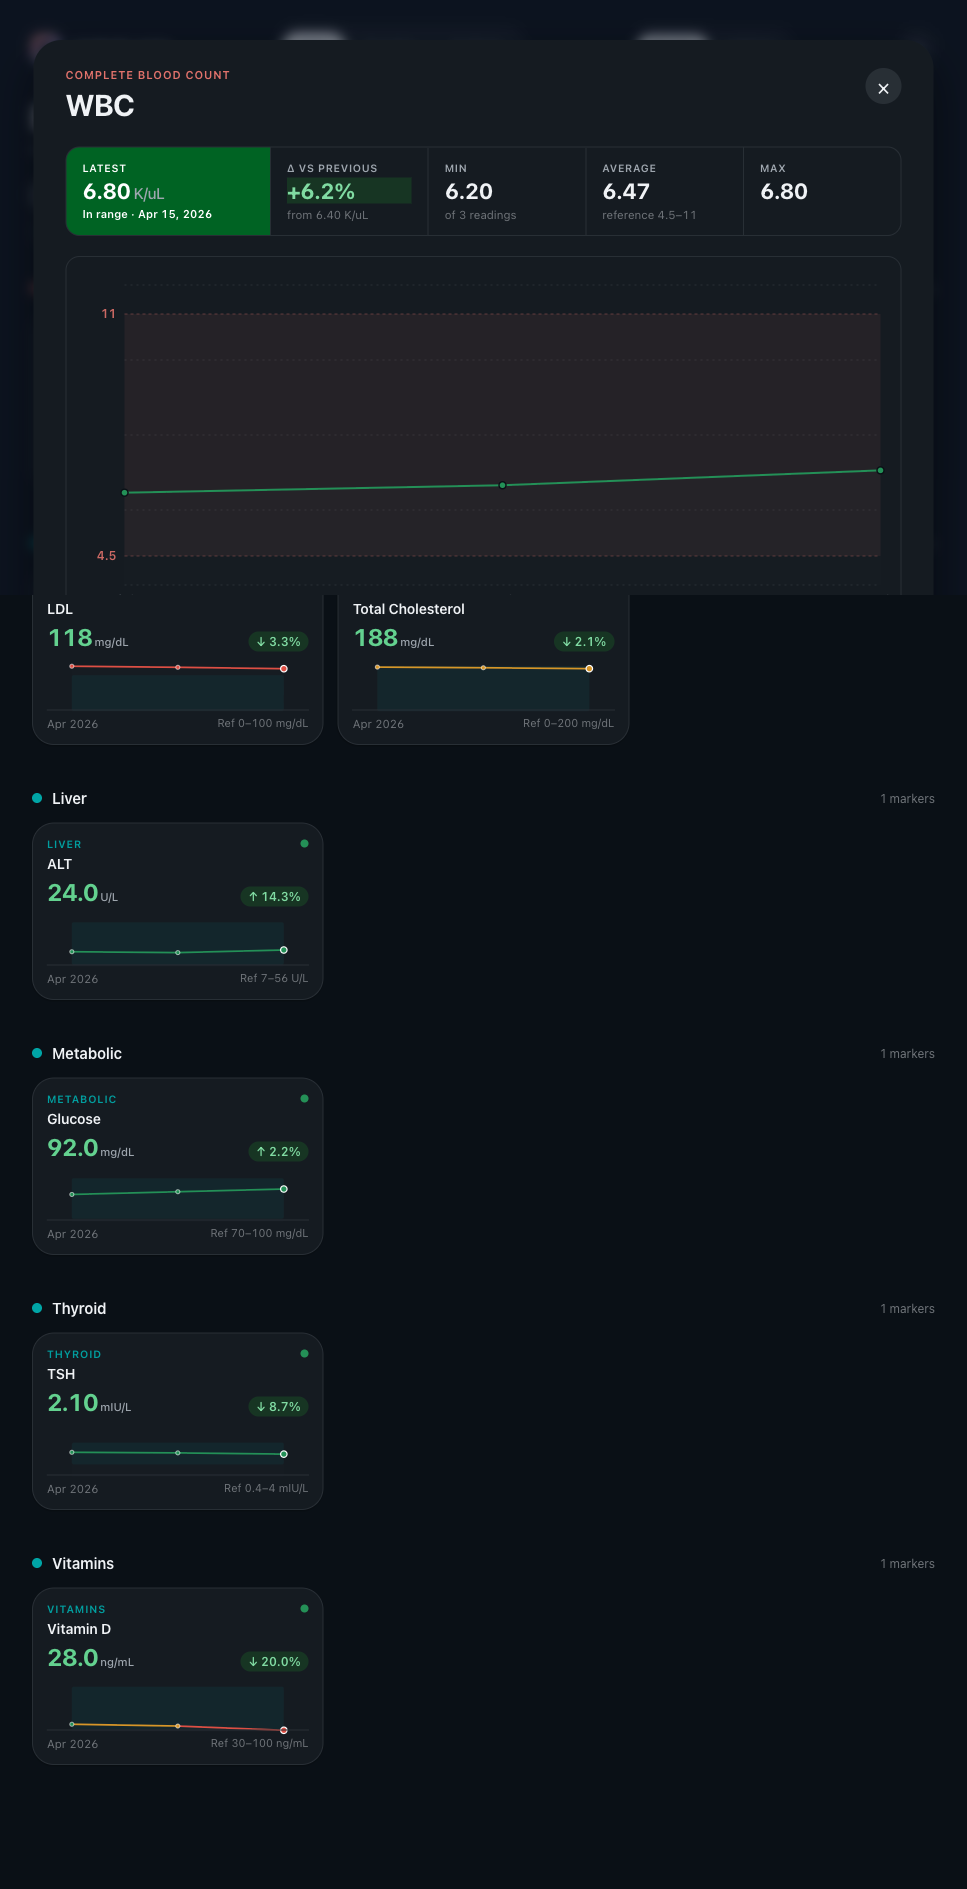
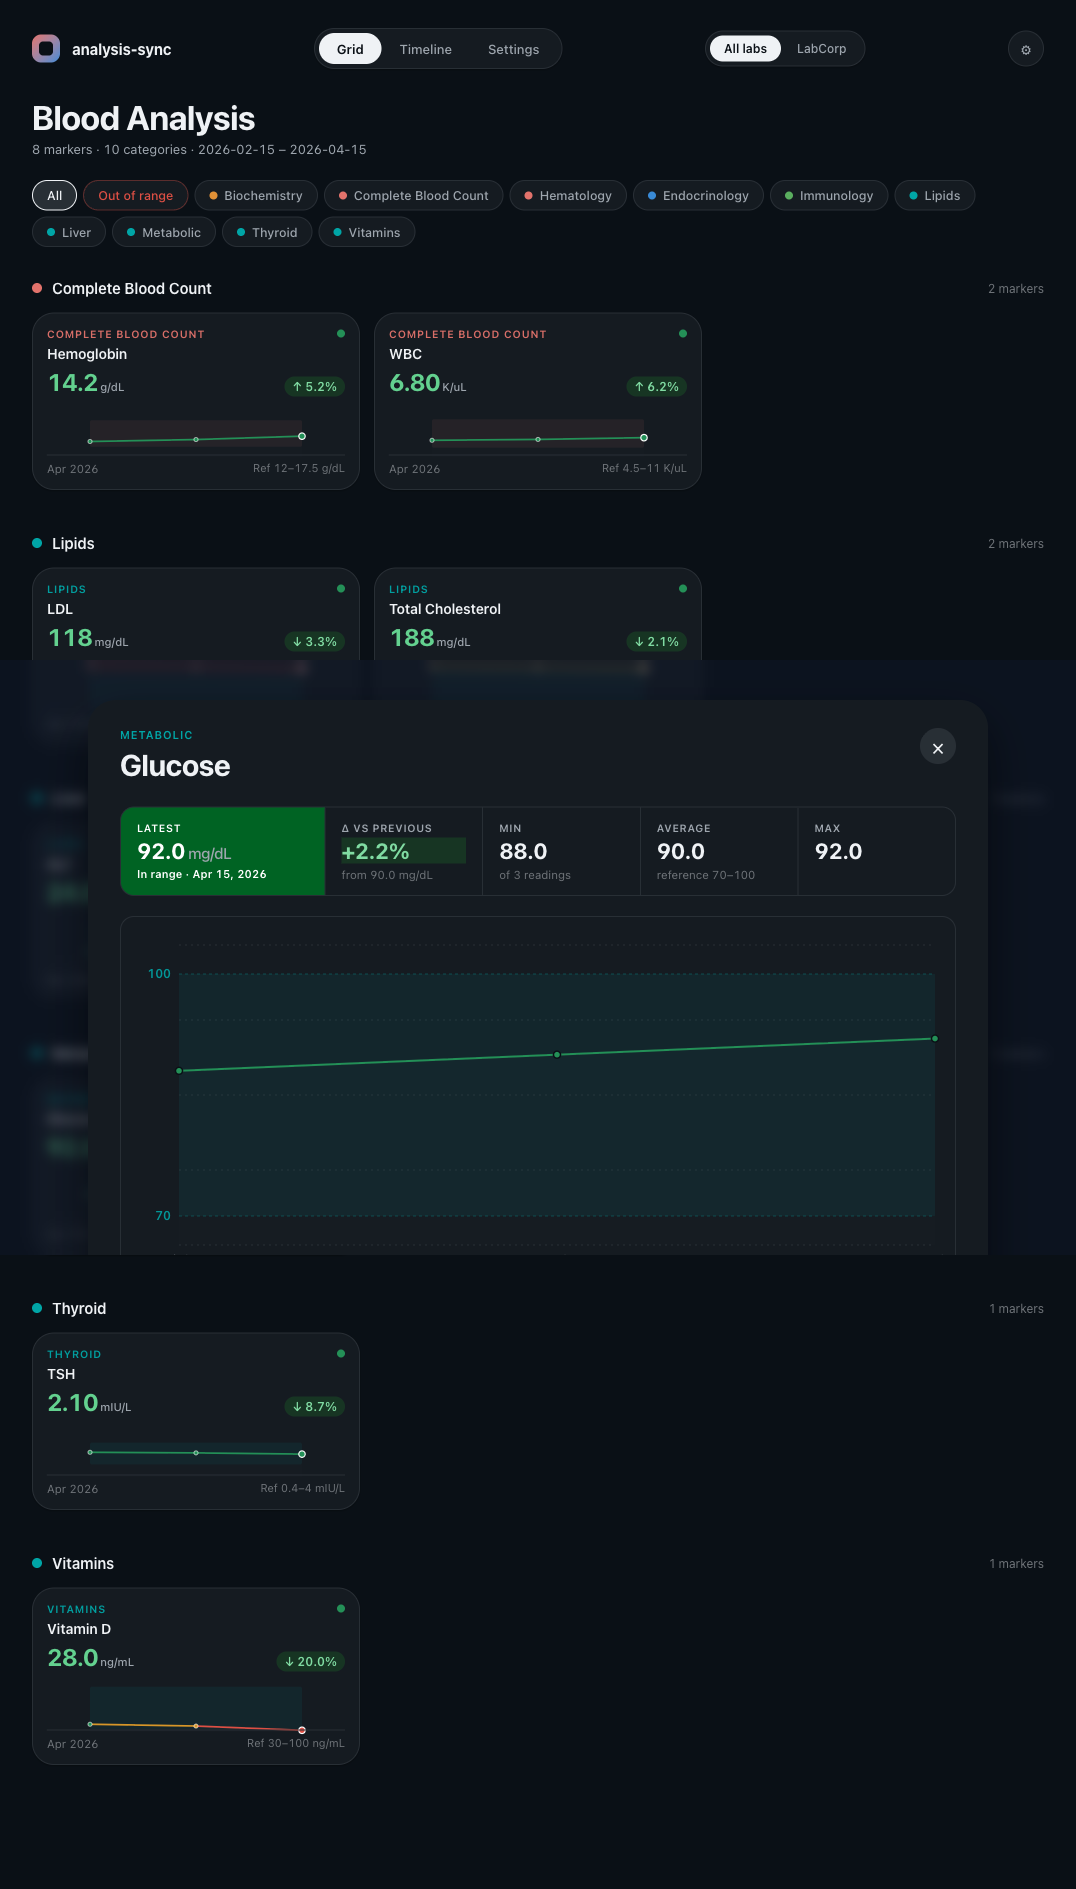
docs: update features and highlight cross-platform support
- Expanded features grid from 6 to 8 cards:
  * Added "PDF & CSV Import" highlighting ZIP upload and auto-detection
  * Added "Manual Data Entry" for custom markers and readings
  * Added "Marker Comparison" for side-by-side analysis on charts
- Updated Desktop App description to emphasize cross-platform support
- Rewrote Cloud Sync highlight to mention macOS iCloud and custom solutions for other platforms
- Updated Secure Storage to reference all three platforms:
  * macOS: Keychain
  * Windows: Credential Manager (DPAPI)
  * Linux: libsecret
- Replaced Detail Modal screenshot with better one showing Glucose marker with stats and chart
- Added responsive grid breakpoint for features at 1100px width

diff --git a/site/src/App.tsx b/site/src/App.tsx
@@ -162,9 +162,9 @@ function App() {
             <div className="feature-icon" style={{ background: 'oklch(0.28 0.06 250)' }}>
               <svg width="22" height="22" viewBox="0 0 24 24" fill="none" stroke="var(--cat-metabolic)" strokeWidth="2" strokeLinecap="round"><path d="M14 2H6a2 2 0 00-2 2v16a2 2 0 002 2h12a2 2 0 002-2V8z"/><polyline points="14 2 14 8 20 8"/><line x1="16" y1="13" x2="8" y2="13"/><line x1="16" y1="17" x2="8" y2="17"/></svg>
             </div>
-            <div className="feature-title">CSV Import</div>
+            <div className="feature-title">PDF & CSV Import</div>
             <div className="feature-desc">
-              Drop a CSV from any lab. The parser maps columns to markers automatically and flags anything outside reference ranges.
+              Upload ZIP files with PDFs from your lab or drop CSVs. The parser automatically detects markers, units, and reference ranges.
             </div>
           </div>
           <div className="feature-card">
@@ -182,7 +182,7 @@ function App() {
             </div>
             <div className="feature-title">Desktop App</div>
             <div className="feature-desc">
-              Run it as a native Electron app on macOS with system-level keychain encryption and iCloud Drive sync.
+              Native Electron app for Windows, macOS, and Linux with system-level secure storage and optional cloud sync.
             </div>
           </div>
           <div className="feature-card">
@@ -191,7 +191,25 @@ function App() {
             </div>
             <div className="feature-title">Encrypted Storage</div>
             <div className="feature-desc">
-              Database encrypted at rest. The key lives in your macOS Keychain, never in config files or environment variables.
+              Database encrypted at rest. Keys are securely stored in your system: Keychain (macOS), Credential Manager (Windows), or libsecret (Linux).
+            </div>
+          </div>
+          <div className="feature-card">
+            <div className="feature-icon" style={{ background: 'oklch(0.28 0.06 75)' }}>
+              <svg width="22" height="22" viewBox="0 0 24 24" fill="none" stroke="var(--cat-lipids)" strokeWidth="2" strokeLinecap="round"><path d="M12 5v14M5 12h14"/></svg>
+            </div>
+            <div className="feature-title">Manual Data Entry</div>
+            <div className="feature-desc">
+              Add or remove markers and manually enter readings. Full control over your health data with customizable marker definitions.
+            </div>
+          </div>
+          <div className="feature-card">
+            <div className="feature-icon" style={{ background: 'oklch(0.28 0.06 35)' }}>
+              <svg width="22" height="22" viewBox="0 0 24 24" fill="none" stroke="var(--cat-cbc)" strokeWidth="2" strokeLinecap="round"><path d="M9 5H7a2 2 0 00-2 2v12a2 2 0 002 2h10a2 2 0 002-2V7a2 2 0 00-2-2h-2M9 5a2 2 0 002 2h2a2 2 0 002-2M9 5a2 2 0 012-2h2a2 2 0 012 2"/></svg>
+            </div>
+            <div className="feature-title">Marker Comparison</div>
+            <div className="feature-desc">
+              Compare two markers side-by-side on interactive charts. Spot correlations and understand how different biomarkers relate.
             </div>
           </div>
         </div>
@@ -322,18 +340,18 @@ function App() {
             <div className="highlight-icon">
               <svg width="28" height="28" viewBox="0 0 24 24" fill="none" stroke="var(--cat-cbc)" strokeWidth="2" strokeLinecap="round"><path d="M21 15v4a2 2 0 01-2 2H5a2 2 0 01-2-2v-4"/><polyline points="17 8 12 3 7 8"/><line x1="12" y1="3" x2="12" y2="15"/></svg>
             </div>
-            <div className="highlight-title">iCloud Sync</div>
+            <div className="highlight-title">Cloud Sync</div>
             <div className="highlight-desc">
-              The database file lives in your iCloud Drive, so it syncs between your Macs automatically.
+              On macOS, sync your database across devices via iCloud Drive. Windows and Linux users can configure custom sync solutions.
             </div>
           </div>
           <div className="highlight-card">
             <div className="highlight-icon">
               <svg width="28" height="28" viewBox="0 0 24 24" fill="none" stroke="var(--cat-lipids)" strokeWidth="2" strokeLinecap="round"><rect x="3" y="11" width="18" height="11" rx="2"/><path d="M7 11V7a5 5 0 0110 0v4"/></svg>
             </div>
-            <div className="highlight-title">Keychain Encryption</div>
+            <div className="highlight-title">Secure Storage</div>
             <div className="highlight-desc">
-              Encryption key stored in macOS Keychain. Even if someone accesses the DB file, the data is unreadable.
+              Encryption key stored securely using your system's native vault: Keychain (macOS), Credential Manager (Windows), or libsecret (Linux). Even if someone accesses the DB file, the data is unreadable.
             </div>
           </div>
           <div className="highlight-card">

diff --git a/site/src/index.css b/site/src/index.css
@@ -520,6 +520,10 @@ a { color: inherit; text-decoration: none; }
 .footer-link:hover { color: var(--text-dim); }
 
 /* ---------- Responsive ---------- */
+@media (max-width: 1100px) {
+  .features-grid { grid-template-columns: repeat(2, 1fr); }
+}
+
 @media (max-width: 900px) {
   .features-grid { grid-template-columns: 1fr; }
   .steps { grid-template-columns: 1fr; gap: 32px; }
